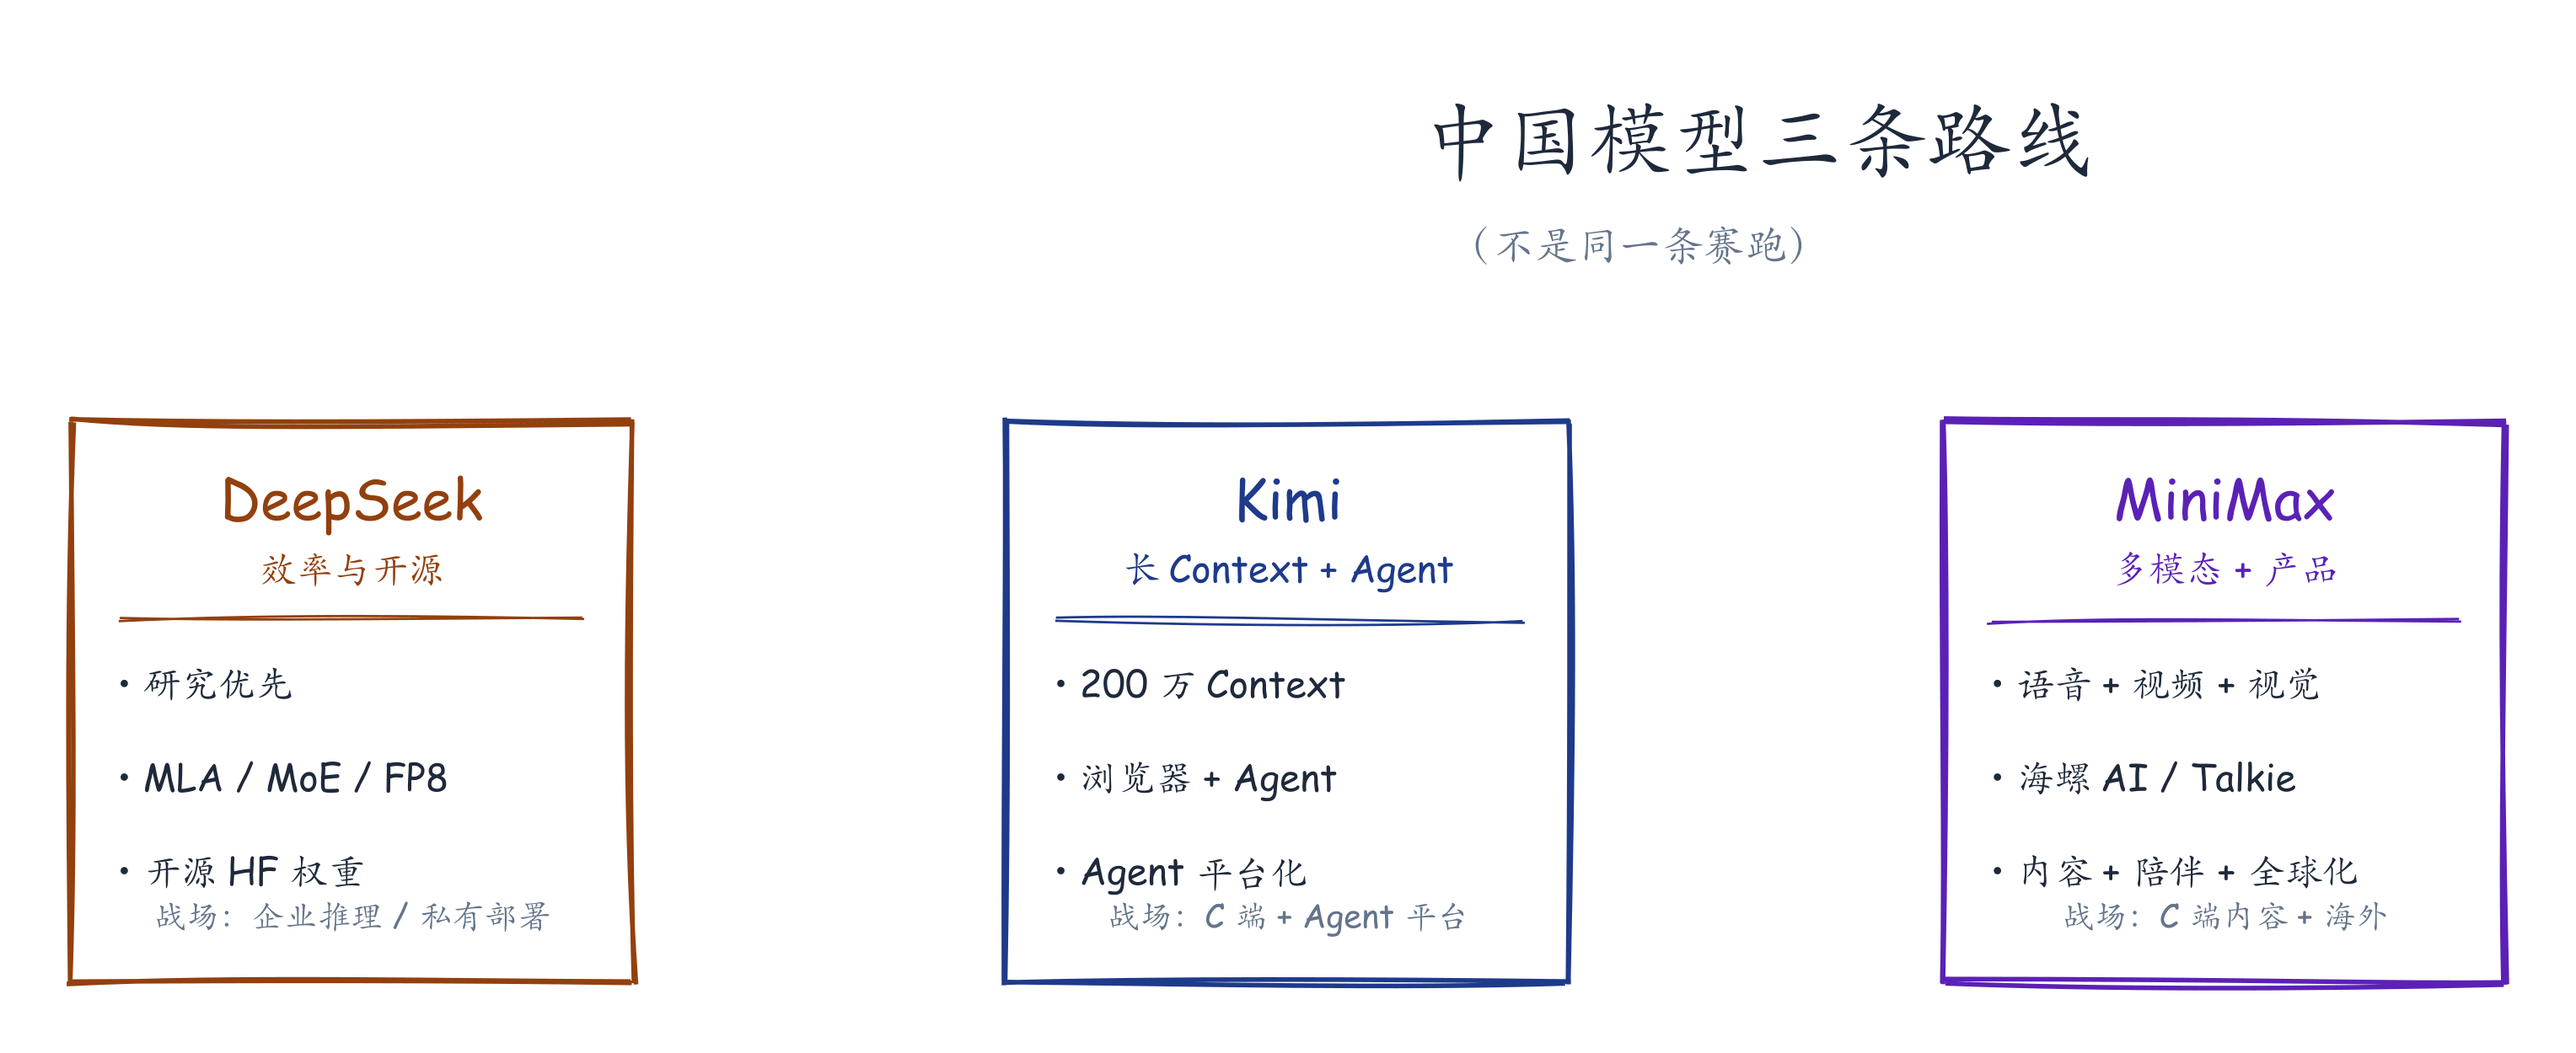
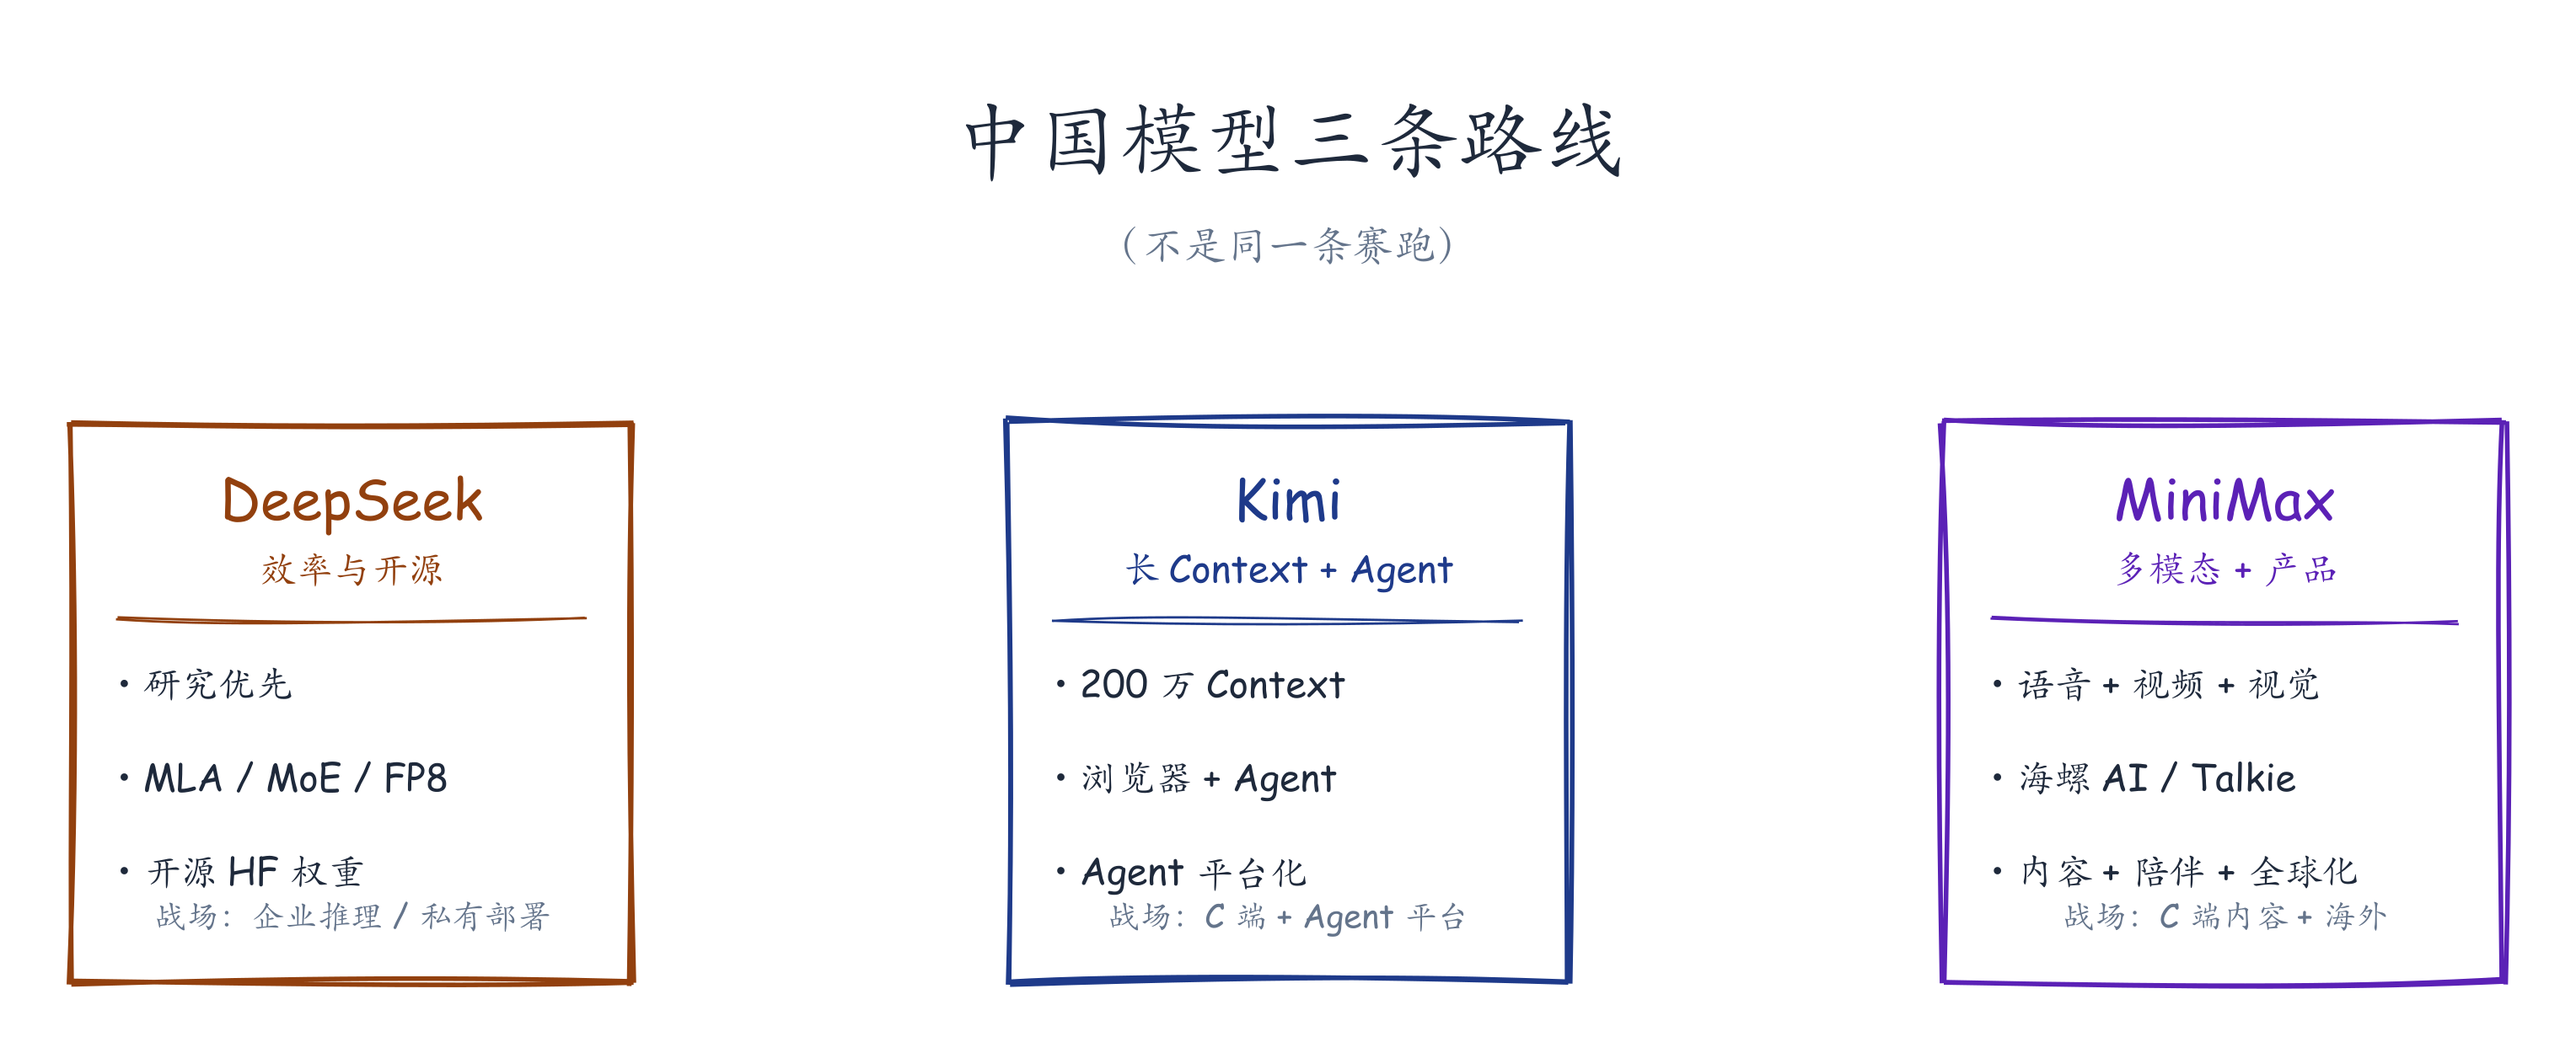
vault backup: 2026-07-24 18:40:42

diff --git a/content/posts/2026-07-25-ai-twelve-themes-12-value-distribution.md b/content/posts/2026-07-25-ai-twelve-themes-12-value-distribution.md
@@ -96,7 +96,7 @@ Infra 不是被动底座，它决定哪些模型能力可以进入生产。
 
 > 价值不会固定停在某一层，会随能力、成本、入口持续迁移。
 
-![AI 产业价值迁移三阶段：模型稀缺期 → 模型商品化期 → Agent 平台期](../../images/2026-07-25-ai-twelve-themes/12-value-migration.png)
+<img src="../../images/2026-07-25-ai-twelve-themes/12-value-migration.svg" alt="AI 产业价值迁移三阶段：模型稀缺期 → 模型商品化期 → Agent 平台期" style="width: 100%; max-width: 900px; display: block; margin: 2rem auto;" />
 
 **底层逻辑**：模型能力稀缺 → 价值集中模型；当能力商品化 → 价值向应用迁移；Agent 时代 → 价值向控制点迁移。
 

diff --git a/content/posts/2026-07-25-ai-twelve-themes-04-pmf.md b/content/posts/2026-07-25-ai-twelve-themes-04-pmf.md
@@ -141,7 +141,7 @@ AI 产品不是一类，按场景拆开后，PMF 判断标准完全不一样。
 
 我把 PMF 拆成 5 个维度，每个产品都该问自己：
 
-![PMF 五维评分：需求真实 80、工作流嵌入 75、留存 70、付费意愿 60、单位经济 55](../../images/2026-07-25-ai-twelve-themes/04-pmf-five-dimensions.png)
+<img src="../../images/2026-07-25-ai-twelve-themes/04-pmf-five-dimensions.svg" alt="PMF 五维评分：需求真实 80、工作流嵌入 75、留存 70、付费意愿 60、单位经济 55" style="width: 100%; max-width: 900px; display: block; margin: 2rem auto;" />
 
 > 5 个维度都 ≥ 60 才算真实 PMF；任何一项 < 40 都要警惕
 

diff --git a/content/posts/2026-07-25-ai-twelve-themes-03-china-models.md b/content/posts/2026-07-25-ai-twelve-themes-03-china-models.md
@@ -24,7 +24,7 @@ draft: false
 
 > 它们不是同一条路线赛跑，而是三种完全不同押注。
 
-![中国模型三条路线：DeepSeek 效率与开源、Kimi 长 Context、MiniMax 多模态](../../images/2026-07-25-ai-twelve-themes/03-china-three-routes.png)
+<img src="../../images/2026-07-25-ai-twelve-themes/03-china-three-routes.svg" alt="中国模型三条路线：DeepSeek 效率与开源、Kimi 长 Context、MiniMax 多模态" style="width: 100%; max-width: 900px; display: block; margin: 2rem auto;" />
 
 我用一家公司一句话总结每条路线：
 

diff --git a/content/posts/2026-07-25-ai-twelve-themes-00-overview.md b/content/posts/2026-07-25-ai-twelve-themes-00-overview.md
@@ -33,7 +33,7 @@ draft: false
 
 我用 Excalidraw 把它们按技术链、商业链、物理链、平台链画成一张总览：
 
-![AI 产业 12 主线 4 链总览](../../images/2026-07-25-ai-twelve-themes/00-ai-twelve-themes-overview.png)
+<img src="../../images/2026-07-25-ai-twelve-themes/00-ai-twelve-themes-overview.svg" alt="AI 产业 12 主线 4 链总览" style="width: 100%; max-width: 900px; display: block; margin: 2rem auto;" />
 
 四个链之间互相牵动：
 
